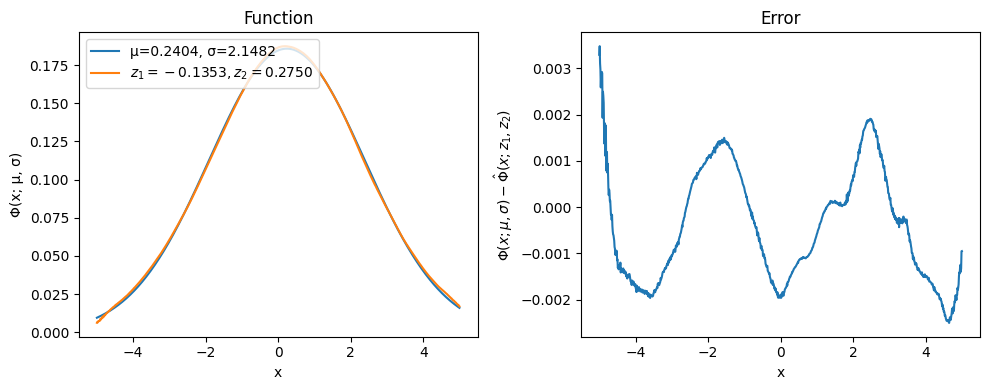
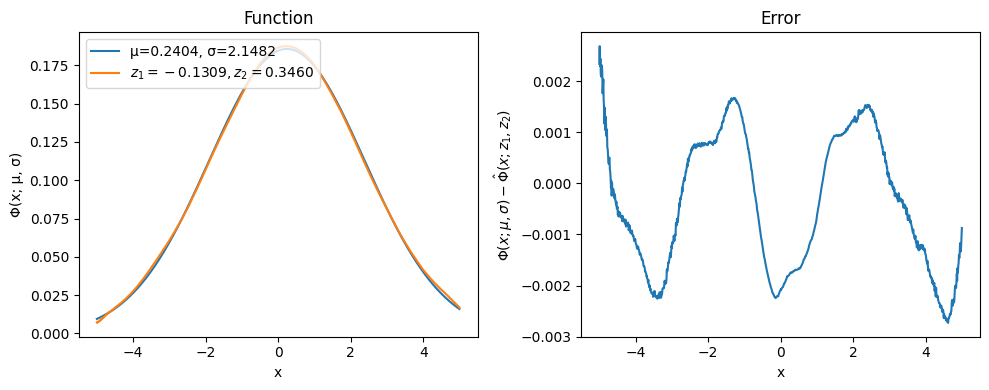
better content

diff --git a/_posts/2021-08-01-normal-distribution.md b/_posts/2021-08-01-normal-distribution.md
@@ -9,7 +9,7 @@ excerpt: "Autoencoders applied to mathematical functions."
 
 An [autoencoder](https://en.wikipedia.org/wiki/Autoencoder) is a type of neural network that is trained to attempt to copy its inputs into its outputs. Given an input $X \in \mathbb{R}^n$ and two functions $f: \mathbb{R}^n \rightarrow \mathbb{R}^m$ and $g: \mathbb{R}^m \rightarrow \mathbb{R}^n$, they compute $\hat{X} = g(f(X))$ and aim for $Y \approx X$ by making a certain loss function $\mathcal{L}(X, \hat{X})$ as small as possible. We need $m \ll n$, as for $m \ge n$ one can simply take identity functions and perform a trivial transformation. 
 
-The function $f$ is called the *encoder* and $g$ the *decoder$, with $Z = f(X)$ the *code* in which a vector $X$ is transformed. The hope is that training will result in the codes $Z$ taking on useful properties, for example removing the noise on $X$ or perform a dimensionality reduction. The vectors $Z$ are often called the *latent* vectors.
+The function $f$ is called the *encoder* and $g$ the *decoder*, with $Z = f(X)$ the *code* in which a vector $X$ is transformed. The hope is that training will result in the codes $Z$ taking on useful properties, for example removing the noise on $X$ or perform a dimensionality reduction. The vectors $Z$ are often called the *latent* vectors.
 
 The simplest kind of autoencoder has one layer, linear activations, and squared error loss,
 
@@ -19,7 +19,7 @@ $$
 
 This computes $\hat{x} = U V X$, which is a linear function; if $m \ge n$ we can shoose $U$ and $V$ such that $U V = I$, which is not very interesting. If instead $m \ll n$ the encoder is reducing the dimensionality; the output $\hat{X}$ must lie in the column space of $U$. This is equivalent to [principal component analysis](https://en.wikipedia.org/wiki/Principal_component_analysis), or PCA.
 
-The idea of autoencoders is to go a step further and add nonlinearities to project the data not on a subspace, but on a nonlinear manifold. As such, they are more powerful than PCA for a given dimensionality.
+The idea of autoencoders is to go a step further and add nonlinearities to project the data not on a subspace, but on a nonlinear manifold. As such, they are more powerful than PCA for a given dimensionality. The learning is unsupervised – they try to reconstruct the inputs from the inputs themselves.
 
 In this article we look at autoencoders as tools for dimensionality reduction. Most of the tutorials on autoencoders do so on images, which are a very important application of generative machine learning models. Here, instead, we will work with mathematical functions and in particular with the well-known the probability density function of the [normal distribution](https://en.wikipedia.org/wiki/Normal_distribution),
 
@@ -231,29 +231,29 @@ torch.manual_seed(0)
 latent_dims = 2
 autoencoder = Autoencoder(latent_dims=latent_dims, num_hidden=16).to(device)
 autoencoder.apply(init_weights)
-history = train(autoencoder, data_loader, epochs=200, lr=1e-3, gamma=0.98, print_every=10)
+history = train(autoencoder, data_loader, epochs=100, lr=1e-3, gamma=0.98, print_every=10)
 ```
 
-    Epoch:  10, lr: 8.3375e-04, avg loss: 2978.8102
-    Epoch:  20, lr: 6.8123e-04, avg loss: 1596.3543
-    Epoch:  30, lr: 5.5662e-04, avg loss: 1100.5824
-    Epoch:  40, lr: 4.5480e-04, avg loss: 905.0095
-    Epoch:  50, lr: 3.7160e-04, avg loss: 779.6560
-    Epoch:  60, lr: 3.0363e-04, avg loss: 696.5421
-    Epoch:  70, lr: 2.4808e-04, avg loss: 641.5026
-    Epoch:  80, lr: 2.0270e-04, avg loss: 600.6263
-    Epoch:  90, lr: 1.6562e-04, avg loss: 572.4385
-    Epoch: 100, lr: 1.3533e-04, avg loss: 546.6655
-    Epoch: 110, lr: 1.1057e-04, avg loss: 528.8666
-    Epoch: 120, lr: 9.0345e-05, avg loss: 513.7626
-    Epoch: 130, lr: 7.3818e-05, avg loss: 501.3278
-    Epoch: 140, lr: 6.0315e-05, avg loss: 491.5679
-    Epoch: 150, lr: 4.9282e-05, avg loss: 483.1427
-    Epoch: 160, lr: 4.0267e-05, avg loss: 476.8771
-    Epoch: 170, lr: 3.2901e-05, avg loss: 471.3284
-    Epoch: 180, lr: 2.6882e-05, avg loss: 466.7106
-    Epoch: 190, lr: 2.1965e-05, avg loss: 462.8381
-    Epoch: 200, lr: 1.7947e-05, avg loss: 459.6428
+    Epoch:  10, lr: 8.3375e-04, avg loss: 0.0119
+    Epoch:  20, lr: 6.8123e-04, avg loss: 0.0063
+    Epoch:  30, lr: 5.5662e-04, avg loss: 0.0046
+    Epoch:  40, lr: 4.5480e-04, avg loss: 0.0037
+    Epoch:  50, lr: 3.7160e-04, avg loss: 0.0033
+    Epoch:  60, lr: 3.0363e-04, avg loss: 0.0029
+    Epoch:  70, lr: 2.4808e-04, avg loss: 0.0027
+    Epoch:  80, lr: 2.0270e-04, avg loss: 0.0025
+    Epoch:  90, lr: 1.6562e-04, avg loss: 0.0024
+    Epoch: 100, lr: 1.3533e-04, avg loss: 0.0023
+    Epoch: 110, lr: 1.1057e-04, avg loss: 0.0023
+    Epoch: 120, lr: 9.0345e-05, avg loss: 0.0022
+    Epoch: 130, lr: 7.3818e-05, avg loss: 0.0022
+    Epoch: 140, lr: 6.0315e-05, avg loss: 0.0021
+    Epoch: 150, lr: 4.9282e-05, avg loss: 0.0021
+    Epoch: 160, lr: 4.0267e-05, avg loss: 0.0021
+    Epoch: 170, lr: 3.2901e-05, avg loss: 0.0020
+    Epoch: 180, lr: 2.6882e-05, avg loss: 0.0020
+    Epoch: 190, lr: 2.1965e-05, avg loss: 0.0020
+    Epoch: 200, lr: 1.7947e-05, avg loss: 0.0020
     
 
 
@@ -269,7 +269,7 @@ plt.ylabel('Loss');
     
 
 
-It is important at this point to look at the latent space. as we have no control on how to is defined and which shape it has. To do that, we apply the encoder to all out dataset and store the results in the `Z` array; we then plot the distribution of $Z_1$ and $Z_2$, as well as all the points $(z_1, z_2)$. From the first two graphs we can appreciate that the first latent dimension goes from about -3 to 2, while the second from -4 to about 1.5. The third graph is the most interesting: the points have a peculiar shape and are not well distributed around the origin. The dashed red line represents the $(-1, 1) \times (-1, 1)$ square, and we can see that the lower left corner has not been touched in training. This means that points generated by the decoder when $z_1=-1$ and $z_2=-1$ will be based on extrapolation rather than interpolation and will probably be of poor quality.
+It is important at this point to look at the latent space. as we have no control on how to is defined and which shape it has. To do that, we apply the encoder to all out dataset and store the results in the `Z` array; we then plot the distribution of $Z_1$ and $Z_2$, as well as all the points $(z_1, z_2)$. From the first two graphs we can appreciate that the first latent dimension goes from about -3 to 2, while the second from -4 to about 1.5. The third graph is the most interesting: the points have a peculiar shape and are not well distributed around the origin. The dashed red line represents the $(-1, 1) \times (-1, 1)$ square, and we can see that the lower part of the square has not been covered while training. This means that points generated by the decoder when $z_1=-1$ and $z_2=-1$ will be based on extrapolation rather than interpolation and will probably be of poor quality.
 
 
 ```python
@@ -342,13 +342,13 @@ print(res)
            message: Optimization terminated successfully.
            success: True
             status: 0
-               fun: 0.040829580277204514
-                 x: [-1.353e-01  2.750e-01]
-               nit: 56
-              nfev: 106
-     final_simplex: (array([[-1.353e-01,  2.750e-01],
-                           [-1.353e-01,  2.749e-01],
-                           [-1.353e-01,  2.749e-01]]), array([ 4.083e-02,  4.083e-02,  4.083e-02]))
+               fun: 0.04326499626040459
+                 x: [-1.309e-01  3.460e-01]
+               nit: 53
+              nfev: 103
+     final_simplex: (array([[-1.309e-01,  3.460e-01],
+                           [-1.310e-01,  3.460e-01],
+                           [-1.309e-01,  3.461e-01]]), array([ 4.326e-02,  4.327e-02,  4.327e-02]))
     
 
 Plotting the results shows quite a good agreement between the exact solution and the one produced by the decoder; increasing the size of the training dataset or the number of epoch would increase the quality.
